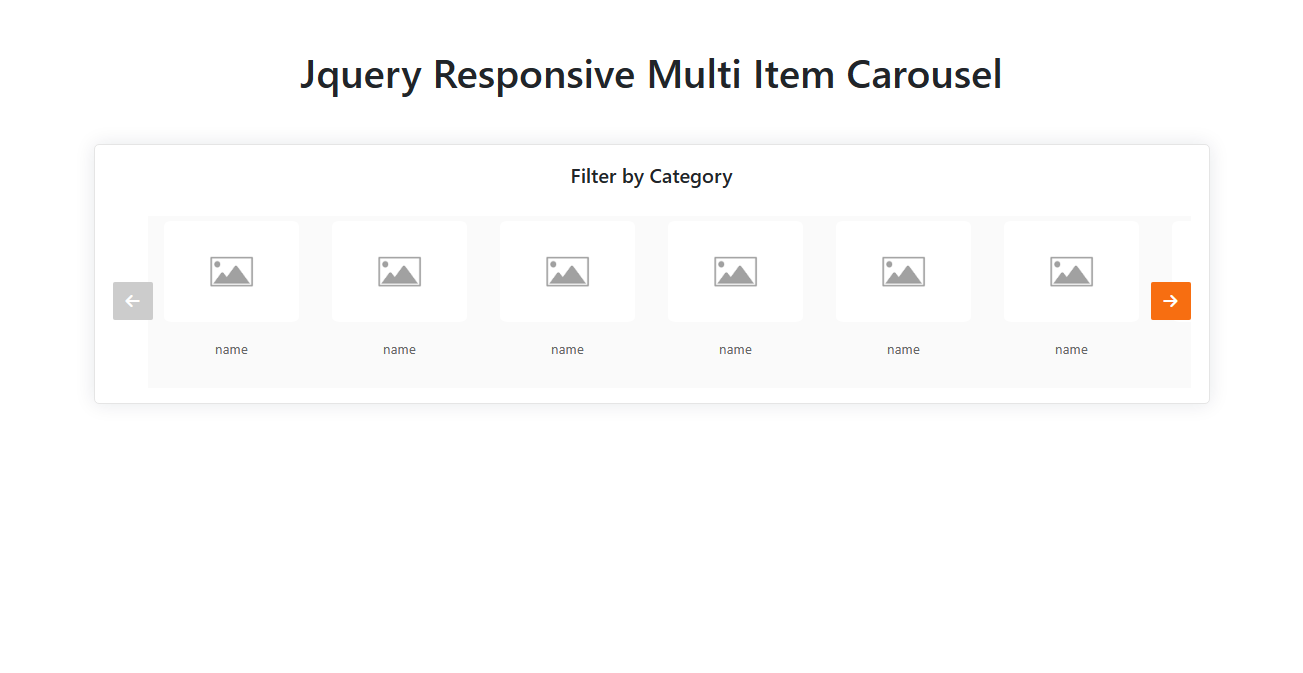
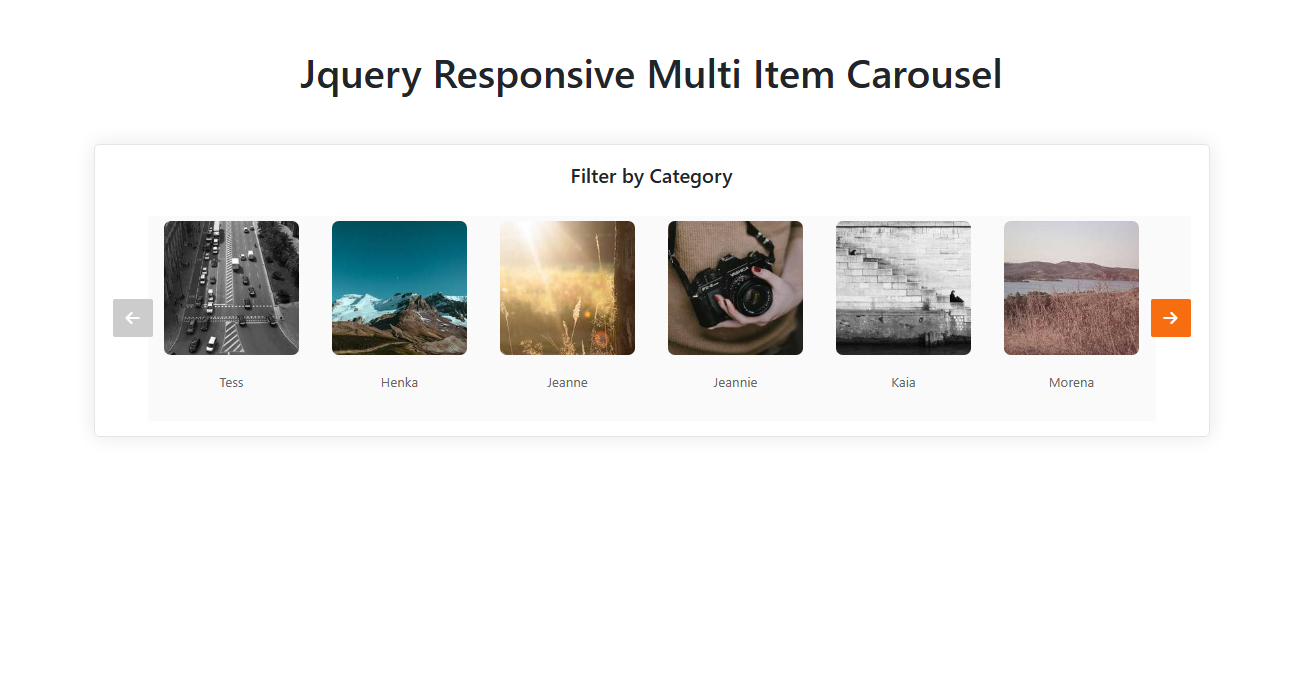
random text

diff --git a/index.html b/index.html
@@ -27,141 +27,140 @@
 </head>
 
 <body>
-    <div class="container">
-        <h1>Random Image Gallery</h1>
+    <div class="mt-5"></div>
+    <h1 class="text-center">Jquery Responsive Multi Item Carousel</h1>
+    <div class="container mt-5">
         <!-- <div class="gallery" id="image-gallery"></div> -->
+        <div class=" d-flex mb-3">
+            <div class="widget" style="max-width: 1200px; width:100%;">
+                <h5 class="title text-center pt-2">Filter by Category</h5>
+                <div class="retailer-category-section-inner initial owl-carousel owl-theme owl-responsive-600 owl-loaded"
+                    data-was-processed="true">
 
-        <div class="retailer-category-section-inner initial owl-carousel owl-theme owl-responsive-600 owl-loaded"
-            data-was-processed="true">
+                    <div class="row">
+                        <div class="MultiCarousel" data-items="1,3,5,6" data-slide="1" id="MultiCarousel"
+                            data-interval="1000">
+                            <div class="MultiCarousel-inner">
 
-            <div class="row">
-                <div class="MultiCarousel" data-items="1,3,5,6" data-slide="1" id="MultiCarousel" data-interval="1000">
-                    <div class="MultiCarousel-inner">
+                                <div class="item" style="width:80px;">
+                                    <div class=" category-new">
+                                        <img class="image-gallery" style="width:80%; border-radius: 5%;"
+                                            src="https://picsum.photos/200/" alt="name">
+                                        <p class="name"
+                                            style="font-size: 10pt;line-height: 1.1;text-align: center; padding-top:20px; padding-bottom:10px">
+                                        </p>
 
-                        <div class="item" style="width:80px;">
-                            <div class=" category-new" >
-                                <img class="image-gallery" style="width:80%; border-radius: 5%;" src="https://picsum.photos/200/" alt="name">
-                                <p class="name"
-                                    style="font-size: 10pt;line-height: 1.1;text-align: center; padding-top:20px; padding-bottom:10px">
-                                </p>
+                                    </div>
+                                </div>
+                                <div class="item" style="width:80px;">
+                                    <div class=" category-new">
+                                        <img class="image-gallery" style="width:80%; border-radius: 5%;"
+                                            src="https://picsum.photos/200/" alt="name">
+                                        <p class="name"
+                                            style="font-size: 10pt;line-height: 1.1;text-align: center; padding-top:20px; padding-bottom:10px">
+                                        </p>
+
+                                    </div>
+                                </div>
+                                <div class="item" style="width:80px;">
+                                    <div class=" category-new">
+                                        <img class="image-gallery" style="width:80%; border-radius: 5%;"
+                                            src="https://picsum.photos/200/" alt="name">
+                                        <p class="name"
+                                            style="font-size: 10pt;line-height: 1.1;text-align: center; padding-top:20px; padding-bottom:10px">
+                                        </p>
+
+                                    </div>
+                                </div>
+                                <div class="item" style="width:80px;">
+                                    <div class=" category-new">
+                                        <img class="image-gallery" style="width:80%; border-radius: 5%;"
+                                            src="https://picsum.photos/200/" alt="name">
+                                        <p class="name"
+                                            style="font-size: 10pt;line-height: 1.1;text-align: center; padding-top:20px; padding-bottom:10px">
+                                        </p>
+
+                                    </div>
+                                </div>
+                                <div class="item" style="width:80px;">
+                                    <div class=" category-new">
+                                        <img class="image-gallery" style="width:80%; border-radius: 5%;"
+                                            src="https://picsum.photos/200/" alt="name">
+                                        <p class="name"
+                                            style="font-size: 10pt;line-height: 1.1;text-align: center; padding-top:20px; padding-bottom:10px">
+                                        </p>
+
+                                    </div>
+                                </div>
+                                <div class="item" style="width:80px;">
+                                    <div class=" category-new">
+                                        <img class="image-gallery" style="width:80%; border-radius: 5%;"
+                                            src="https://picsum.photos/200/" alt="name">
+                                        <p class="name"
+                                            style="font-size: 10pt;line-height: 1.1;text-align: center; padding-top:20px; padding-bottom:10px">
+                                        </p>
+
+                                    </div>
+                                </div>
+                                <div class="item" style="width:80px;">
+                                    <div class=" category-new">
+                                        <img class="image-gallery" style="width:80%; border-radius: 5%;"
+                                            src="https://picsum.photos/200/" alt="name">
+                                        <p class="name"
+                                            style="font-size: 10pt;line-height: 1.1;text-align: center; padding-top:20px; padding-bottom:10px">
+                                        </p>
+
+                                    </div>
+                                </div>
+                                <div class="item" style="width:80px;">
+                                    <div class=" category-new">
+                                        <img class="image-gallery" style="width:80%; border-radius: 5%;"
+                                            src="https://picsum.photos/200/" alt="name">
+                                        <p class="name"
+                                            style="font-size: 10pt;line-height: 1.1;text-align: center; padding-top:20px; padding-bottom:10px">
+                                        </p>
+
+                                    </div>
+                                </div>
+                                <div class="item" style="width:80px;">
+                                    <div class=" category-new">
+                                        <img class="image-gallery" style="width:80%; border-radius: 5%;"
+                                            src="https://picsum.photos/200/" alt="name">
+                                        <p class="name"
+                                            style="font-size: 10pt;line-height: 1.1;text-align: center; padding-top:20px; padding-bottom:10px">
+                                        </p>
+
+                                    </div>
+                                </div>
+                                <div class="item" style="width:80px;">
+                                    <div class=" category-new">
+                                        <img class="image-gallery" style="width:80%; border-radius: 5%;"
+                                            src="https://picsum.photos/200/" alt="name">
+                                        <p class="name"
+                                            style="font-size: 10pt;line-height: 1.1;text-align: center; padding-top:20px; padding-bottom:10px">
+                                        </p>
+
+                                    </div>
+                                </div>
+                                
+
+                                <div class="item" style="width:80px;">
+                                    <div class=" category-new">
+                                        <img style="width:80%; border-radius: 5%;"
+                                            src="https://picsum.photos/id/237/200/200" alt="name">
+                                        <p class="name"
+                                            style="font-size: 10pt;line-height: 1.1;text-align: center; padding-top:20px; padding-bottom:10px">
+                                            name</p>
+
+                                    </div>
+                                </div>
 
                             </div>
+                            <button class="btn btn-color leftLst">
+                                <i class="fa fa-arrow-left"></i> </button>
+                            <button class="btn btn-color rightLst"><i class="fa fa-arrow-right"></i></button>
                         </div>
-                        <div class="item" style="width:80px;">
-                            <div class=" category-new" >
-                                <img class="image-gallery" style="width:80%; border-radius: 5%;" src="https://picsum.photos/200/" alt="name">
-                                <p class="name"
-                                    style="font-size: 10pt;line-height: 1.1;text-align: center; padding-top:20px; padding-bottom:10px">
-                                </p>
-
-                            </div>
-                        </div>
-                        <div class="item" style="width:80px;">
-                            <div class=" category-new" >
-                                <img class="image-gallery" style="width:80%; border-radius: 5%;" src="https://picsum.photos/200/" alt="name">
-                                <p class="name"
-                                    style="font-size: 10pt;line-height: 1.1;text-align: center; padding-top:20px; padding-bottom:10px">
-                                </p>
-
-                            </div>
-                        </div>
-                        <div class="item" style="width:80px;">
-                            <div class=" category-new" >
-                                <img class="image-gallery" style="width:80%; border-radius: 5%;" src="https://picsum.photos/200/" alt="name">
-                                <p class="name"
-                                    style="font-size: 10pt;line-height: 1.1;text-align: center; padding-top:20px; padding-bottom:10px">
-                                </p>
-
-                            </div>
-                        </div>
-                        <div class="item" style="width:80px;">
-                            <div class=" category-new" >
-                                <img class="image-gallery" style="width:80%; border-radius: 5%;" src="https://picsum.photos/200/" alt="name">
-                                <p class="name"
-                                    style="font-size: 10pt;line-height: 1.1;text-align: center; padding-top:20px; padding-bottom:10px">
-                                </p>
-
-                            </div>
-                        </div>
-                        <div class="item" style="width:80px;">
-                            <div class=" category-new" >
-                                <img class="image-gallery" style="width:80%; border-radius: 5%;" src="https://picsum.photos/200/" alt="name">
-                                <p id="random-number"
-                                    style="font-size: 10pt;line-height: 1.1;text-align: center; padding-top:20px; padding-bottom:10px">
-                                </p>
-
-                            </div>
-                        </div>
-                        <div class="item" style="width:80px;">
-                            <div class=" category-new" >
-                                <img class="image-gallery" style="width:80%; border-radius: 5%;" src="https://picsum.photos/200/" alt="name">
-                                <p id="random-number"
-                                    style="font-size: 10pt;line-height: 1.1;text-align: center; padding-top:20px; padding-bottom:10px">
-                                </p>
-
-                            </div>
-                        </div>
-                        <div class="item" style="width:80px;">
-                            <div class=" category-new" >
-                                <img class="image-gallery" style="width:80%; border-radius: 5%;" src="https://picsum.photos/200/" alt="name">
-                                <p id="random-number"
-                                    style="font-size: 10pt;line-height: 1.1;text-align: center; padding-top:20px; padding-bottom:10px">
-                                </p>
-
-                            </div>
-                        </div>
-                        <div class="item" style="width:80px;">
-                            <div class=" category-new" >
-                                <img class="image-gallery" style="width:80%; border-radius: 5%;" src="https://picsum.photos/200/" alt="name">
-                                <p id="random-number"
-                                    style="font-size: 10pt;line-height: 1.1;text-align: center; padding-top:20px; padding-bottom:10px">
-                                </p>
-
-                            </div>
-                        </div>
-                        <div class="item" style="width:80px;">
-                            <div class=" category-new" >
-                                <img class="image-gallery" style="width:80%; border-radius: 5%;" src="https://picsum.photos/200/" alt="name">
-                                <p id="random-number"
-                                    style="font-size: 10pt;line-height: 1.1;text-align: center; padding-top:20px; padding-bottom:10px">
-                                </p>
-
-                            </div>
-                        </div>
-                        <div class="item" style="width:80px;">
-                            <div class=" category-new" >
-                                <img class="image-gallery" style="width:80%; border-radius: 5%;" src="https://picsum.photos/200/" alt="name">
-                                <p id="random-number"
-                                    style="font-size: 10pt;line-height: 1.1;text-align: center; padding-top:20px; padding-bottom:10px">
-                                </p>
-
-                            </div>
-                        </div>
-                        <div class="item" style="width:80px;">
-                            <div class=" category-new" >
-                                <img class="image-gallery" style="width:80%; border-radius: 5%;" src="https://picsum.photos/200/" alt="name">
-                                <p id="random-number"
-                                    style="font-size: 10pt;line-height: 1.1;text-align: center; padding-top:20px; padding-bottom:10px">
-                                </p>
-
-                            </div>
-                        </div>
-
-                        <div class="item" style="width:80px;">
-                            <div class=" category-new" >
-                                <img style="width:80%; border-radius: 5%;" src="https://picsum.photos/id/237/200/200"
-                                    alt="name">
-                                <p class="name"
-                                    style="font-size: 10pt;line-height: 1.1;text-align: center; padding-top:20px; padding-bottom:10px">
-                                    name</p>
-
-                            </div>
-                        </div>
-
                     </div>
-                    <button class="btn btn-color leftLst">
-                        <i class="fa fa-arrow-left"></i> </button>
-                    <button class="btn btn-color rightLst"><i class="fa fa-arrow-right"></i></button>
                 </div>
             </div>
         </div>

diff --git a/js/script.js b/js/script.js
@@ -1,4 +1,3 @@
-
 $(document).ready(function () {
     // Select all images with the class name "gallery" using jQuery
     $('.image-gallery').each(function () {
@@ -7,30 +6,18 @@ $(document).ready(function () {
         // Manipulate the src attribute of each image element
         $(this).attr('src', 'https://picsum.photos/id/' + randomNumber + '/200/200');
     });
-    $('.name').each(function () {
 
-        
-        const randomNumber = Math.floor(Math.random() * 500) + 1;
 
-        const xhr = new XMLHttpRequest();
-        xhr.open('GET', 'data.json');
-        xhr.responseType = 'json';
+    $.getJSON('data.json', function (data) {
 
-        xhr.onload = function (e) {
-            if (xhr.status === 200) {
-                const data = xhr.response;
-                console.log(data[randomNumber]);
-                e = data[randomNumber];
-                return e;
-            } else {
-                console.log('Error loading JSON file.');
-            }
-        };
-
-        // Send the AJAX request
-        $(this).val("e")
-        xhr.send();
+        // const randomNumber = Math.floor(Math.random() * 500) + 1;
+        $('p.name').each(function () {
+            let randomIndex = Math.floor(Math.random() * data.length); // Generate a random index
+            let randomElement = data[randomIndex]; // Select the element at the random index
+            $(this).text('' + randomElement);
+        });
     });
+
 
 
 });
